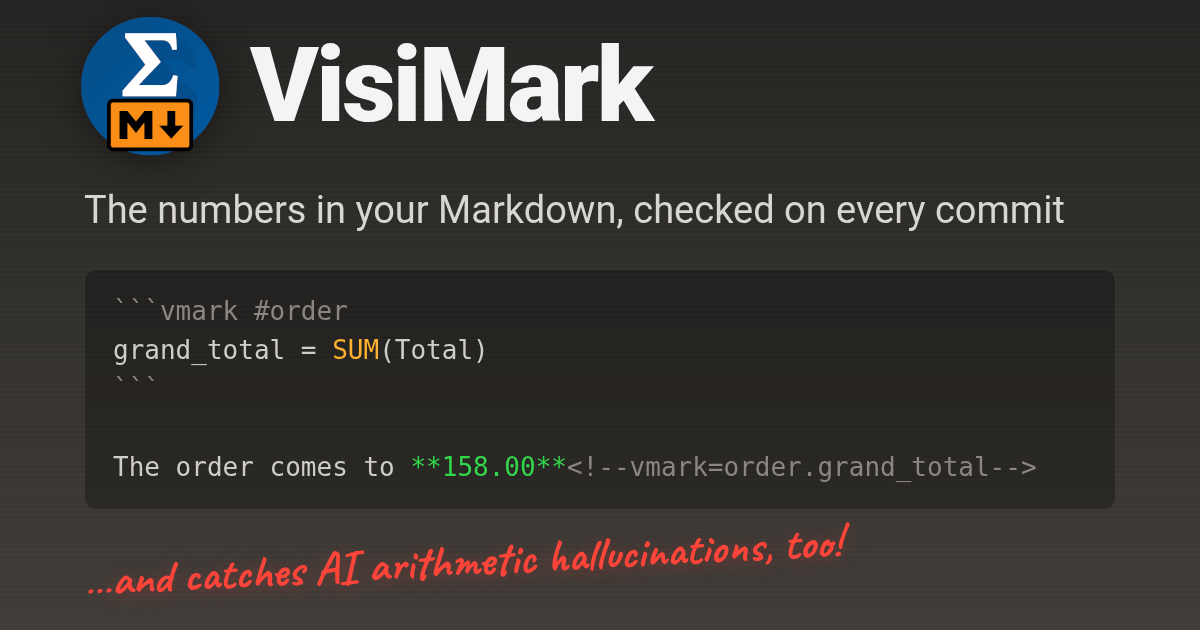
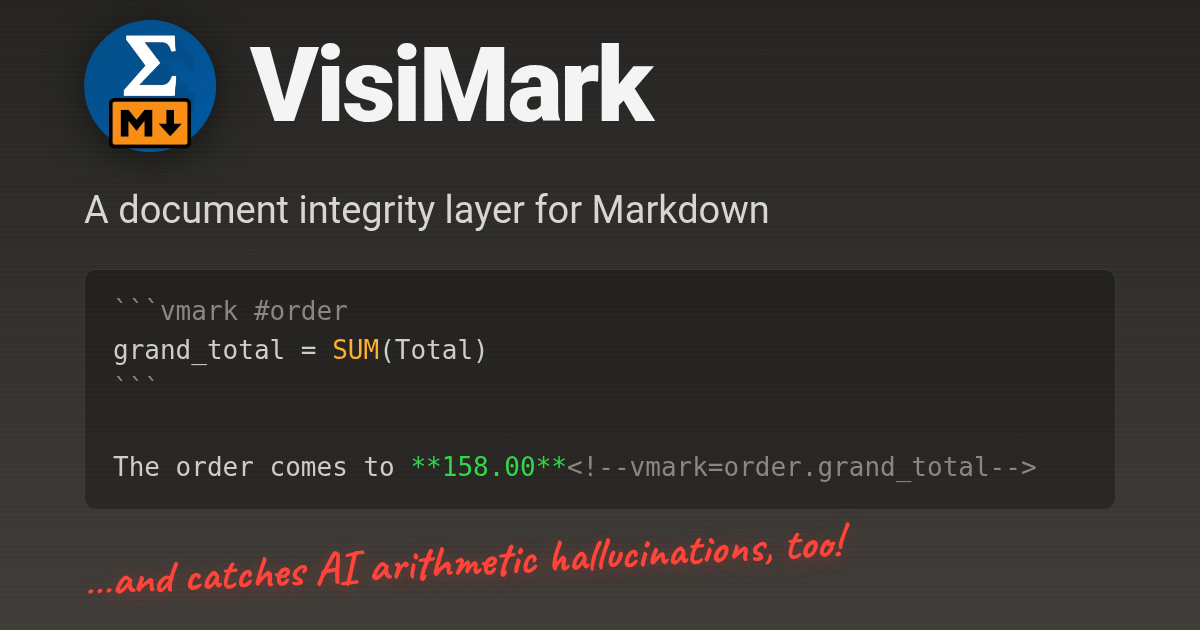
docs: pitch VisiMark as a document integrity layer for Markdown (#296)

diff --git a/docs/index.html b/docs/index.html
@@ -70,14 +70,14 @@
     -->
     <meta
       name="description"
-      content="The numbers in your Markdown, checked on every commit: every computed number carries the formula that produced it, and a machine can prove the two still agree."
+      content="A document integrity layer for Markdown: it checks that every number in a document still matches the formula that produced it, so an agent's correct formula can't ship with a wrong total."
     />
     <meta property="og:type" content="website" />
     <meta property="og:site_name" content="VisiMark" />
-    <meta property="og:title" content="VisiMark" />
+    <meta property="og:title" content="VisiMark: a document integrity layer for Markdown" />
     <meta
       property="og:description"
-      content="The numbers in your Markdown, checked on every commit: every computed number carries the formula that produced it, and a machine can prove the two still agree."
+      content="A document integrity layer for Markdown: it checks that every number in a document still matches the formula that produced it, so an agent's correct formula can't ship with a wrong total."
     />
     <meta property="og:url" content="https://visimark.dev/" />
     <meta property="og:image" content="https://visimark.dev/og-card.png" />
@@ -88,7 +88,7 @@
       content="VisiMark: a vmark block computing grand_total = SUM(Total), and the prose value it keeps in step"
     />
     <meta name="twitter:card" content="summary_large_image" />
-    <title>VisiMark</title>
+    <title>VisiMark: a document integrity layer for Markdown</title>
     <link rel="icon" type="image/webp" href="assets/visimark.webp" />
     <link rel="preconnect" href="https://fonts.googleapis.com" />
     <link rel="preconnect" href="https://fonts.gstatic.com" crossorigin />
@@ -110,12 +110,12 @@
       <header class="masthead">
         <img src="assets/visimark.webp" alt="VisiMark logo" />
         <h1>VisiMark</h1>
-        <p class="subtitle">the numbers in your Markdown, checked on every commit</p>
+        <p class="subtitle">a document integrity layer for Markdown</p>
       </header>
 
       <p class="pitch">
         <span>&hellip;and catches AI arithmetic hallucinations, too!</span>
-        <span>&hellip;and gives you spreadsheet mechanics, too!</span>
+        <span>&hellip;and every number carries its formula, too!</span>
         <span>&hellip;fat fingers no more!</span>
         <span>&hellip;so stale values are impossible!</span>
       </p>
@@ -285,8 +285,8 @@ Total: **35.00**<span class="c">&lt;!--vmark=order.total--&gt;</span>
       <header class="section-head">
         <h2>Five documents, five differentiators</h2>
         <p class="subtitle">
-          Not just a spreadsheet for Markdown &mdash; a build tool, an agent harness, a human error
-          verifier, executable documentation and a safety net for stale artifacts.
+          Not just a checker for Markdown numbers &mdash; a build tool, an agent harness, a human
+          error verifier, executable documentation and a safety net for stale artifacts.
         </p>
       </header>
 

diff --git a/docs/tutorial.html b/docs/tutorial.html
@@ -916,7 +916,7 @@ needs <code>sh</code> on your PATH. Git Bash or WSL provide it. Plain PowerShell
 `npx visimark` if you did not install it.</pre><div class="out"><p>Everywhere below, <code>visimark</code> means "the command you just installed", or
 <code>npx visimark</code> if you did not install it.</p></div><pre class="src">### The help screen</pre><div class="out"><h3 id="the-help-screen">The help screen</h3></div><pre class="src">```console
 $ visimark --help
-visimark — spreadsheet mechanics for Markdown
+visimark — a document integrity layer for Markdown
 
 usage:
   visimark check FILE... [--json]      read-only; exit 1 if any finding.
@@ -934,7 +934,7 @@ usage:
 
 exit codes: 0 clean, 1 findings, 2 usage or read failure
 ```</pre><div class="out"><pre><code class="language-console">$ visimark --help
-visimark — spreadsheet mechanics for Markdown
+visimark — a document integrity layer for Markdown
 
 usage:
   visimark check FILE... [--json]      read-only; exit 1 if any finding.

diff --git a/docs/preview.html b/docs/preview.html
@@ -256,7 +256,7 @@
         <a href="index.html"><img src="assets/visimark.webp" alt="VisiMark logo" /></a>
         <div>
           <h1><a href="index.html" style="color: inherit; text-decoration: none">VisiMark</a></h1>
-          <p class="subtitle">the numbers in your Markdown, checked on every commit</p>
+          <p class="subtitle">a document integrity layer for Markdown</p>
         </div>
       </header>
 

diff --git a/packages/visimark/src/cli/main.ts b/packages/visimark/src/cli/main.ts
@@ -10,7 +10,7 @@ import {
 } from "./commands.js";
 import { readVersion } from "./version.js";
 
-const USAGE = `visimark — spreadsheet mechanics for Markdown
+const USAGE = `visimark — a document integrity layer for Markdown
 
 usage:
   visimark check FILE... [--json]      read-only; exit 1 if any finding.

diff --git a/README.md b/README.md
@@ -1,15 +1,8 @@
 # VisiMark
 
-**The numbers in your Markdown, checked on every commit.**
+**A document integrity layer for Markdown: it checks that every number in a document still matches the formula that produced it, so an agent's correct formula can't ship with a wrong total.**
 
-Markdown is a fine way to write a document and a terrible way to keep its
-arithmetic honest. Change a `12` to a `20` in an invoice, forget the totals
-that depend on it, and the document still renders perfectly. GitHub does not
-complain. Your Markdown preview does not complain. A reviewer may not notice.
-
-VisiMark makes those numbers verifiable. It turns the calculations in a
-document into explicit formulas, recomputes them, reports exactly what no
-longer agrees, and fails CI when a document contradicts its own arithmetic.
+VisiMark checks the numbers in Markdown documents, especially ones an agent wrote. Every computed value carries its formula, a machine proves the two still agree, and CI fails when they don't. The document stays plain Markdown.
 
 This matters most when the Markdown is written or edited by an AI agent.
 Agents are reliable at writing formulas and unreliable at the arithmetic those

diff --git a/CHANGELOG.md b/CHANGELOG.md
@@ -4,6 +4,19 @@
 
 ### Changed
 
+- **VisiMark is now described as a document integrity layer for Markdown, not
+  "spreadsheet mechanics".** The audience is agent builders, and the failure
+  the tool prevents is an agent writing a correct formula and the wrong total.
+  The new one-line pitch is: *a document integrity layer for Markdown: it
+  checks that every number in a document still matches the formula that
+  produced it, so an agent's correct formula can't ship with a wrong total.*
+  It replaces the old wording in the `visimark` and VS Code descriptions, the
+  README and VS Code README, the site (title, `og:title`, description,
+  subtitle and share card), `server.json`, `action.yml`, both Obsidian
+  manifests, the skill and the tutorial. `visimark --help` now opens with
+  `visimark — a document integrity layer for Markdown`; no command or flag
+  changed. The `spreadsheet` npm keyword became
+  `document-integrity`.
 - **`remark-lint-visimark` and `markdownlint-rule-visimark` now declare
   `engines` (`node >=24`, `bun >=1.0.0`), the same floor as `visimark`.** CI
   now packs both, installs the tarballs into a scratch project under Node

diff --git a/editors/vscode/README.md b/editors/vscode/README.md
@@ -1,9 +1,8 @@
 # VisiMark for VS Code
 
-**The numbers in your Markdown, checked on every commit.**
+**A document integrity layer for Markdown: it checks that every number in a document still matches the formula that produced it, so an agent's correct formula can't ship with a wrong total.**
 
-VisiMark makes calculations explicit, changes reviewable, and numerical
-correctness enforceable — while keeping the document as plain Markdown. This
+VisiMark checks the numbers in Markdown documents, especially ones an agent wrote. Every computed value carries its formula, a machine proves the two still agree, and CI fails when they don't. The document stays plain Markdown. This
 extension is where that starts: the wrong number is squiggled as you type, and
 gone by the time you save.
 

diff --git a/docs/visimark-design.md b/docs/visimark-design.md
@@ -9,9 +9,9 @@ Both are normative: the implementation must reproduce their behaviour exactly.
 ## 1. Purpose
 
 Markdown made prose reviewable in a diff. Nothing does that for calculation.
-VisiMark adds spreadsheet mechanics to Markdown so that a number in a document
-can carry the formula that produced it, and so that a machine can prove the two
-still agree.
+VisiMark is a document integrity layer for Markdown: a number in a document
+carries the formula that produced it, and a machine proves the two still
+agree.
 
 The intended user is a developer or an agent working in a text editor, not a
 spreadsheet user. The value is not the arithmetic — it is that the arithmetic

diff --git a/packages/visimark-mcp/skill.md b/packages/visimark-mcp/skill.md
@@ -10,8 +10,9 @@ description: Use when authoring, editing, or verifying a Markdown document conta
 
 ## Overview
 
-VisiMark makes a number in a Markdown document carry the formula that produced
-it, so a machine can prove the two still agree. You are unreliable at
+VisiMark is a document integrity layer for Markdown. It makes a number carry
+the formula that produced it, so a machine can prove the two still agree and a
+correct formula never ships with a wrong total. You are unreliable at
 arithmetic and reliable at writing formulas. Write the formula; let the tool do
 the arithmetic.
 

diff --git a/skills/visimark/SKILL.md b/skills/visimark/SKILL.md
@@ -7,8 +7,9 @@ description: Use when authoring, editing, or verifying a Markdown document conta
 
 ## Overview
 
-VisiMark makes a number in a Markdown document carry the formula that produced
-it, so a machine can prove the two still agree. You are unreliable at
+VisiMark is a document integrity layer for Markdown. It makes a number carry
+the formula that produced it, so a machine can prove the two still agree and a
+correct formula never ships with a wrong total. You are unreliable at
 arithmetic and reliable at writing formulas. Write the formula; let the tool do
 the arithmetic.
 

diff --git a/packages/visimark-mcp/README.md b/packages/visimark-mcp/README.md
@@ -3,7 +3,9 @@
 A stdio [MCP](https://modelcontextprotocol.io) server exposing the
 [VisiMark](https://github.com/michal-niedzwiedzki/visimark) engine to agents:
 every `visimark` command as a tool, the authoring discipline as resources, and
-the two orderings an agent gets wrong unsupplied as prompts.
+the two orderings an agent gets wrong unsupplied as prompts. It is the document
+integrity layer for machine-written Markdown: an agent's correct formula can't
+ship with a wrong total.
 
 Read-only unless an operator deliberately opens the write gate.
 

diff --git a/editors/obsidian/CHANGELOG.md b/editors/obsidian/CHANGELOG.md
@@ -9,6 +9,10 @@ Each entry says which engine version the bundle carries.
 
 ## Unreleased
 
+The plugin description now leads with the new pitch: it checks that every
+number in a note still matches the formula that produced it. No behaviour
+change.
+
 ## 0.2.2 - 2026-09-28
 
 Fixes what the community scanner's first pass on 0.2.1 flagged. No behaviour
